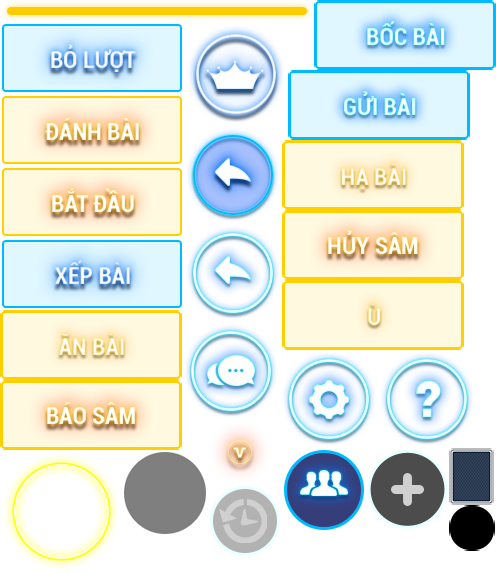
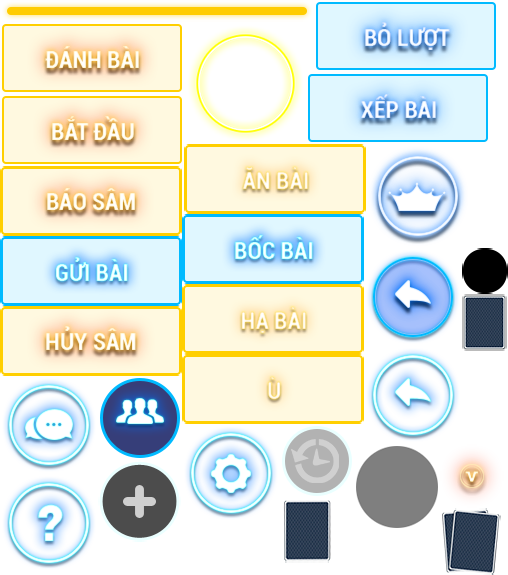
tlmn card reamining

diff --git a/res/Game/js/Game/TienLen.js b/res/Game/js/Game/TienLen.js
@@ -2,6 +2,40 @@
  * Created by Quyet Nguyen on 7/21/2016.
  */
 
+var CardRemaining = cc.Node.extend({
+    ctor : function () {
+        this._super()
+        this.setAnchorPoint(cc.p(0.5, 0.5));
+
+        var bg = new cc.Sprite("#card_remain_bg_1.png");
+        this.setContentSize(bg.getContentSize());
+        bg.setPosition(this.getContentSize().width/2, this.getContentSize().height/2);
+        this.addChild(bg);
+        this.bg = bg;
+
+        var label = new cc.LabelBMFont("99", cc.res.font.Roboto_Condensed_25);
+        label.setPosition(bg.x, bg.y);
+        this.addChild(label);
+        this.label = label;
+    },
+
+    setCardRemain : function (card) {
+        if(card <= 0){
+            this.setVisible(false);
+        }
+        else{
+            this.setVisible(true);
+            this.label.setString(card);
+            if(card > 1){
+                this.bg.setSpriteFrame("card_remain_bg_2.png");
+            }
+            else{
+                this.bg.setSpriteFrame("card_remain_bg_1.png");
+            }
+        }
+    }
+});
+
 var TienLen = IGameScene.extend({
     ctor: function () {
         this._super();
@@ -92,18 +126,35 @@ var TienLen = IGameScene.extend({
         player1.setPosition(cc.winSize.width - 120.0 / cc.winSize.screenScale, 360.0);
         this.sceneLayer.addChild(player1, 1);
         player1.chatView.setAnchorPoint(cc.p(1.0,0.0));
+        player1.chatView.y += 20;
 
         var player2 = new GamePlayer();
         player2.setPosition(cc.winSize.width / 2, 650.0 * cc.winSize.screenScale);
         this.sceneLayer.addChild(player2, 1);
-        player2.chatView.setAnchorPoint(cc.p(0.0,1.0));
+        player2.chatView.setAnchorPoint(cc.p(1.0,1.0));
 
         var player3 = new GamePlayer();
         player3.setPosition(120.0 / cc.winSize.screenScale, 360.0);
         this.sceneLayer.addChild(player3, 1);
         player3.chatView.setAnchorPoint(cc.p(0.0,0.0));
+        player3.chatView.y += 20;
 
         this.playerView = [playerMe, player1, player2, player3];
+
+        var cardRemaining1 = new CardRemaining();
+        cardRemaining1.setPosition(30,100);
+        player1.infoLayer.addChild(cardRemaining1);
+        player1.cardRemaining = cardRemaining1;
+
+        var cardRemaining2 = new CardRemaining();
+        cardRemaining2.setPosition(130,100);
+        player2.infoLayer.addChild(cardRemaining2);
+        player2.cardRemaining = cardRemaining2;
+
+        var cardRemaining3 = new CardRemaining();
+        cardRemaining3.setPosition(130,100);
+        player3.infoLayer.addChild(cardRemaining3);
+        player3.cardRemaining = cardRemaining3;
     },
 
     onBoLuot: function (username) {
@@ -257,6 +308,21 @@ var TienLen = IGameScene.extend({
             }
             else {
                 this.allSlot[i].stopTimeRemain();
+            }
+        }
+    },
+
+    updateCardRemaining : function (username, card) {
+        cc.log("updateCardRemaining: "+username);
+        for (var i = 0; i < this.allSlot.length; i++) {
+            if(this.allSlot[i].username == "") {
+                continue;
+            }
+            if (this.allSlot[i].username == username) {
+                if(this.allSlot[i].cardRemaining){
+                    this.allSlot[i].cardRemaining.setCardRemain(card);
+                }
+                break;
             }
         }
     },

diff --git a/res/Game/js/Game/Controller/TLMNController.js b/res/Game/js/Game/Controller/TLMNController.js
@@ -67,10 +67,22 @@ var TLMNGameController = GameController.extend({
         else if (content.c == "12") { //chat chem
             this._view.onChatChem(content.p);
         }
+        else if(content.c == "50") { // update card remain
+            this.onUpdateCardReamain(content.p);
+        }
+    },
+
+    onUpdateCardReamain : function (param) {
+        this._view.updateCardRemaining(param.u, param["1"]);
     },
 
     onJoinGame : function (params) {
         this.updateGameInfo(params);
+
+        var userInfo = params["5"];
+        for(var i=0;i<userInfo.length;i++){
+            this._view.updateCardRemaining(userInfo[i]["u"], userInfo[i]["8"]);
+        }
     },
 
     onReconnect: function (params) {
@@ -90,6 +102,17 @@ var TLMNGameController = GameController.extend({
             this._view.removeCardList();
             this._view.onUpdateTurn(".", 0, 0);
         }
+
+        //update card remain
+        var userInfo = params["1"]["5"];
+        for(var i=0;i<userInfo.length;i++){
+            this._view.updateCardRemaining(userInfo[i]["u"], userInfo[i]["8"]);
+        }
+    },
+
+    onUserJoinRoom : function (p) {
+        this._super(p);
+        this._view.updateCardRemaining(p.u, 0);
     },
 
     updateGameInfo : function (params) {
@@ -112,7 +135,7 @@ var TLMNGameController = GameController.extend({
             /* update turn */
             var username = params["12"]["u"];
             var currentTime = params["12"]["2"] / 1000;
-            var newTurn = (cardData.length > 0) ? true : false;
+            var newTurn = (cardData.length > 0) ? false : true;
             this.onUpdateTurn(username, currentTime, newTurn);
         }
     },
@@ -124,6 +147,10 @@ var TLMNGameController = GameController.extend({
             cards.push(this.getCardWithId(cardData[i]));
         }
         this._view.dealCards(cards);
+
+        for(var i=0;i<this.playerSlot.length;i++){
+            this._view.updateCardRemaining(this.playerSlot[i].username, cardData.length);
+        }
     },
 
     onUpdateTurn : function (username, currentTime, newTurn) {

diff --git a/res/Game/js/Game/Sam.js b/res/Game/js/Game/Sam.js
@@ -47,6 +47,7 @@ var Sam = TienLen.extend({
         player1.setPosition(cc.winSize.width - 120.0 / cc.winSize.screenScale, 360.0);
         this.sceneLayer.addChild(player1, 1);
         player1.chatView.setAnchorPoint(cc.p(1.0,0.0));
+        player1.chatView.y += 20;
 
         var player2 = new GamePlayer();
         player2.setPosition(cc.winSize.width / 2 - 220, 650.0 * cc.winSize.screenScale);
@@ -62,8 +63,29 @@ var Sam = TienLen.extend({
         player4.setPosition(120.0 / cc.winSize.screenScale, 360.0);
         this.sceneLayer.addChild(player4, 1);
         player4.chatView.setAnchorPoint(cc.p(0.0,0.0));
+        player4.chatView.y += 20;
 
         this.playerView = [playerMe, player1, player2, player3,player4];
+
+        var cardRemaining1 = new CardRemaining();
+        cardRemaining1.setPosition(30,100);
+        player1.infoLayer.addChild(cardRemaining1);
+        player1.cardRemaining = cardRemaining1;
+
+        var cardRemaining2 = new CardRemaining();
+        cardRemaining2.setPosition(130,100);
+        player2.infoLayer.addChild(cardRemaining2);
+        player2.cardRemaining = cardRemaining2;
+
+        var cardRemaining3 = new CardRemaining();
+        cardRemaining3.setPosition(130,100);
+        player3.infoLayer.addChild(cardRemaining3);
+        player3.cardRemaining = cardRemaining3;
+
+        var cardRemaining4 = new CardRemaining();
+        cardRemaining4.setPosition(130,100);
+        player4.infoLayer.addChild(cardRemaining4);
+        player4.cardRemaining = cardRemaining4;
     },
 
     setSamBtVisible :function(visible){

diff --git a/res/Game/js/Game/Controller/GameController.js b/res/Game/js/Game/Controller/GameController.js
@@ -50,6 +50,15 @@ var GameController = cc.Class.extend({
         }
     },
 
+    onUserJoinRoom : function (p) {
+        var userInfo = {
+            index: p["4"],
+            username: p["u"],
+            gold: p["3"]
+        };
+        this._view.userJoinRoom(userInfo);
+    },
+
     onSFSExtension : function (messageType, content) {
         if(content.c == "ping"){
             SmartfoxClient.getInstance().sendExtensionRequestCurrentRoom("ping", null);
@@ -64,12 +73,7 @@ var GameController = cc.Class.extend({
             this.processPlayerPosition(content);
         }
         else if (content.c == "2"){ //user joinRoom
-            var userInfo = {
-                index : content.p["4"],
-                username : content.p["u"],
-                gold : content.p["3"]
-            }
-            this._view.userJoinRoom(userInfo);
+            this.onUserJoinRoom(content.p);
         }
         else if (content.c == "9"){ //user exit
             if(content.p.u != PlayerMe.username){

diff --git a/res/Game/js/Game/TLMNSolo.js b/res/Game/js/Game/TLMNSolo.js
@@ -15,7 +15,12 @@ var TLMNSolo = TienLen.extend({
         var player1 = new GamePlayer();
         player1.setPosition(cc.winSize.width / 2, 650.0 * cc.winSize.screenScale);
         this.sceneLayer.addChild(player1, 1);
-        player1.chatView.setAnchorPoint(cc.p(0.0,1.0));
+        player1.chatView.setAnchorPoint(cc.p(1.0,1.0));
+
+        var cardRemaining1 = new CardRemaining();
+        cardRemaining1.setPosition(130,100);
+        player1.infoLayer.addChild(cardRemaining1);
+        player1.cardRemaining = cardRemaining1;
 
         this.playerView = [playerMe, player1];
     }

diff --git a/res/Game/js/Game/Card.js b/res/Game/js/Game/Card.js
@@ -53,6 +53,8 @@ var Card = cc.Sprite.extend({
             });
             var move = new cc.MoveTo(0.1, cc.p(this.origin.x, this.origin.y));
             this.runAction(new cc.Sequence(beforeMove,move,afterMove));
+
+            this._cardSelected = false;
         }
     },
     setSelected : function (selected, force) {

diff --git a/html/main.js b/html/main.js
@@ -85,8 +85,8 @@ var _resumeMethod = function () {
         }
     });
 
-    cc.eventManager.addListener(_listener1, 1);
-    cc.eventManager.addListener(_listener2, 1);
+    // cc.eventManager.addListener(_listener1, 1);
+    // cc.eventManager.addListener(_listener2, 1);
 };
 
 
